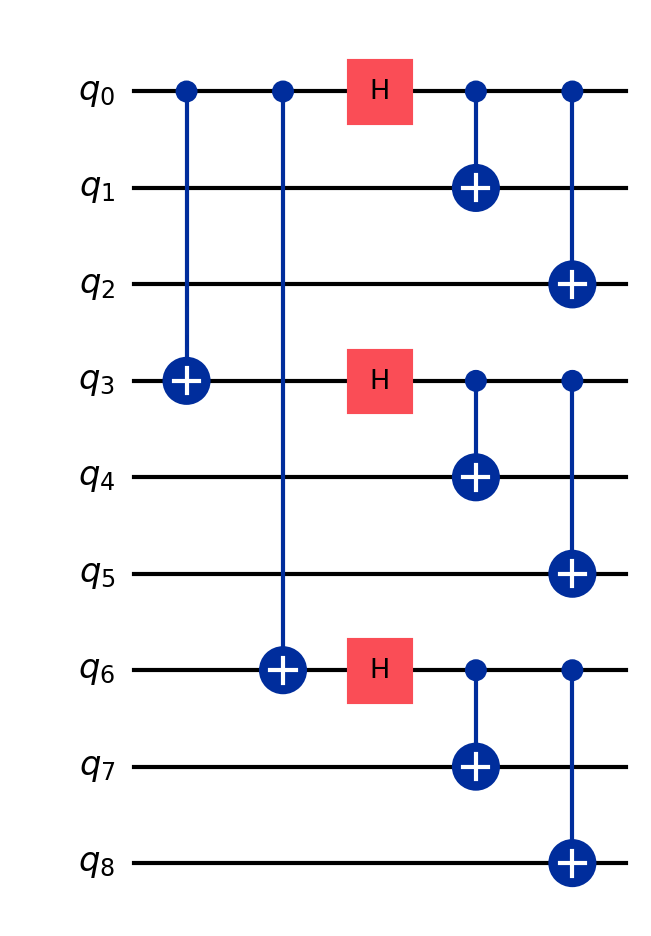
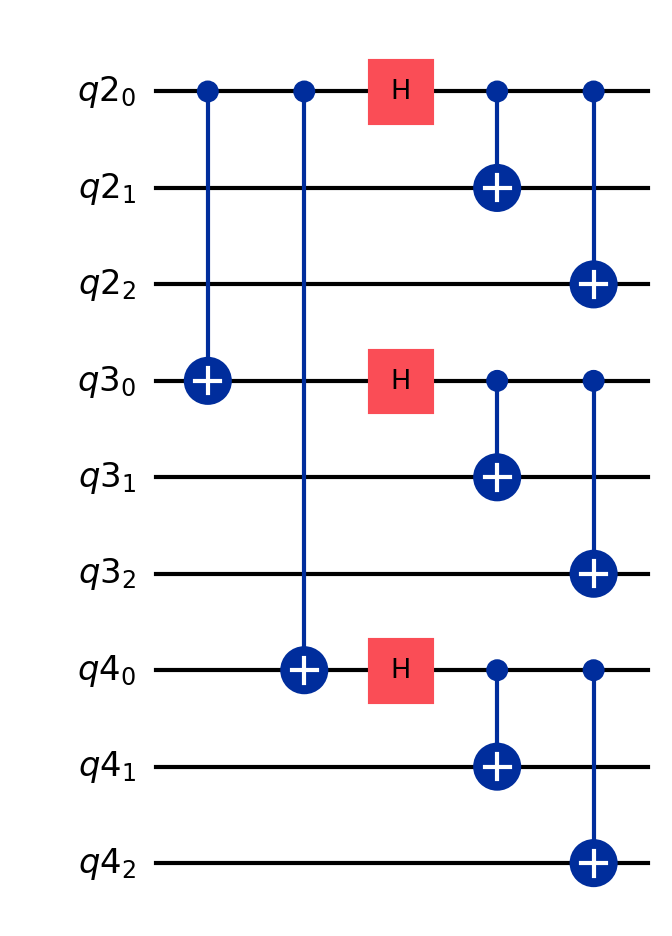
Fix typing

diff --git a/scripts/gen_imgs.py b/scripts/gen_imgs.py
@@ -3,7 +3,7 @@ from pathlib import Path
 from qiskit import ClassicalRegister, QuantumCircuit, QuantumRegister
 
 from qecc import get_three_qubit_phase_flip_encoding_circuit
-from qecc.nine_qubit_shors_code import get_nine_qubit_shors_code_encoding_circuit, get_nine_qubit_shors_code_syndrome_extraction_circuit
+from qecc.nine_qubit_shors_code import get_nine_qubit_shors_code_bit_flip_syndrome_extraction_circuit, get_nine_qubit_shors_code_encoding_circuit
 from qecc.three_qubit_bit_flip import apply_three_qubit_bit_flip_correction, get_three_qubit_bit_flip_encoding_decoding_circuit, get_three_qubit_bit_flip_syndrome_extraction_circuit
 from qecc.three_qubit_phase_flip import apply_three_qubit_phase_flip_correction, get_three_qubit_phase_flip_syndrome_extraction_circuit
 
@@ -64,19 +64,19 @@ def nine_qubit_shors_code() -> None:
     draw_circuit(get_nine_qubit_shors_code_encoding_circuit(), out_dir / "encoding.png")
 
     # Syndrome extraction
-    qc = QuantumCircuit(9 + 6 + 2)
+    qc = QuantumCircuit(9 + 6)
     qc.compose(
         get_nine_qubit_shors_code_encoding_circuit(),
-        qubits=(0, 1, 2, 3, 4, 5, 6, 7, 8),
+        qubits=qc.qubits[:9],
         inplace=True,
     )
     qc.barrier()
     qc.compose(
-        get_nine_qubit_shors_code_syndrome_extraction_circuit(),
-        qubits=(0, 1, 2, 3, 4, 5, 6, 7, 8, 9, 10, 11, 12, 13, 14, 15, 16),
+        get_nine_qubit_shors_code_bit_flip_syndrome_extraction_circuit(),
+        qubits=qc.qubits[:15],
         inplace=True,
     )
-    draw_circuit(qc, out_dir / "syndrome_extraction.png")
+    draw_circuit(qc, out_dir / "bit_flip_syndrome_extraction.png")
 
 
 if __name__ == "__main__":
